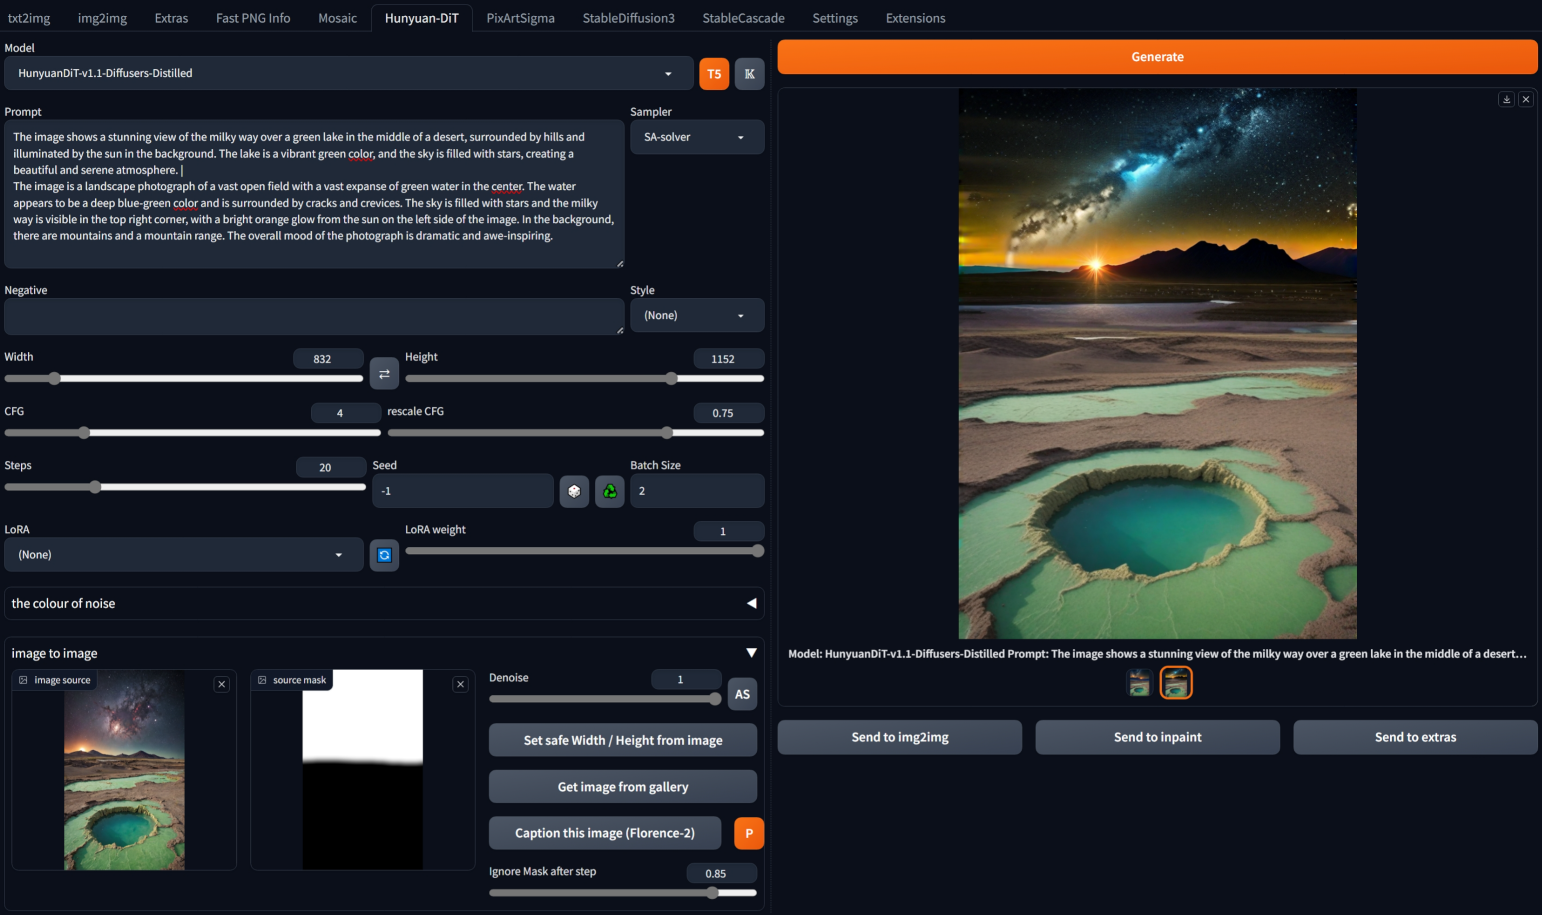
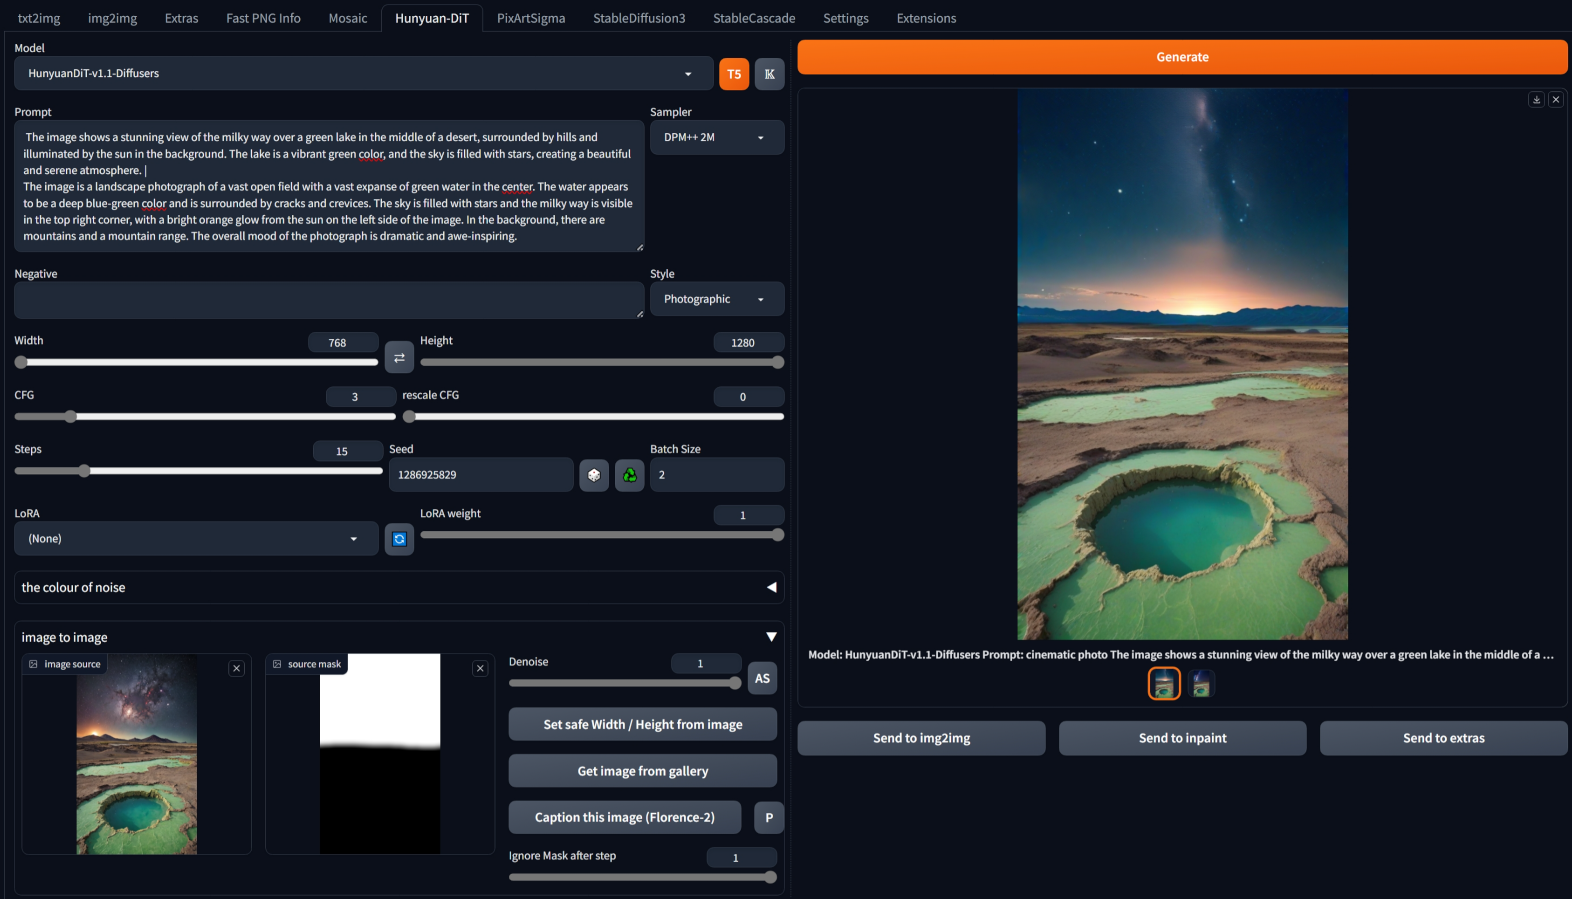
Add files via upload
cleaner batch handling; restored previous (better) image to image noise addition method

Changed region(s): [[0.0, 0.0, 1.0, 0.9655], [0.1556, 0.7164, 0.2802, 0.9655], [0.4669, 0.9655, 0.4981, 0.9967]]

diff --git a/scripts/hunyuan_DiT_diffusers.py b/scripts/hunyuan_DiT_diffusers.py
@@ -45,7 +45,7 @@ class HunyuanStorage:
     i2iAllSteps = False
     lora = None
     lora_scale = 1.0
-    last_batch = 0
+#    last_batch = 0
 
 ## from huggingace.co/Tencent-Hunyuan/HYDiT-LoRA
 def load_hunyuan_dit_lora(transformer_state_dict, lora_state_dict, lora_scale):
@@ -151,7 +151,6 @@ def predict(model, positive_prompt, negative_prompt, width, height, guidance_sca
     volatileState = [HunyuanStorage.useT5, HunyuanStorage.karras]
 
     if controlNet != 0 and controlNetImage != None and controlNetStrength > 0.0:
-        controlNetImage = controlNetImage.resize((width, height))
         useControlNet = ['Tencent-Hunyuan/HunyuanDiT-v1.1-ControlNet-Diffusers-Canny', 
                          'Tencent-Hunyuan/HunyuanDiT-v1.1-ControlNet-Diffusers-Depth', 
                          'Tencent-Hunyuan/HunyuanDiT-v1.1-ControlNet-Diffusers-Pose'][controlNet-1]
@@ -164,14 +163,11 @@ def predict(model, positive_prompt, negative_prompt, width, height, guidance_sca
     if i2iSource != None:
         if HunyuanStorage.i2iAllSteps == True:
             num_steps = int(num_steps / i2iDenoise)
-        i2iSource = i2iSource.resize((width, height))
     else:
         i2iDenoise = 1.0
         maskSource = None
 
-    if maskSource != None:
-        maskSource = maskSource.resize((int(width/8), int(height/8)))
-    else:
+    if maskSource == None:
         maskCutOff = 1.0
 
 
@@ -215,8 +211,7 @@ def predict(model, positive_prompt, negative_prompt, width, height, guidance_sca
 
     #first: tokenize and text_encode
     useCachedEmbeds = (HunyuanStorage.lastPrompt == combined_positive and 
-                       HunyuanStorage.lastNegative == combined_negative and
-                       HunyuanStorage.last_batch == num_images)
+                       HunyuanStorage.lastNegative == combined_negative)# and  HunyuanStorage.last_batch == num_images)
     if useCachedEmbeds:
         print ("Skipping text encoders and tokenizers.")
         #   nothing to do
@@ -266,19 +261,21 @@ def predict(model, positive_prompt, negative_prompt, width, height, guidance_sca
             positive_text_input_ids,
             attention_mask=positive_attention_1,
         )
-        bs_embed, seq_len, _ = prompt_embeds[0].shape
-        positive_embeds_1 = prompt_embeds[0].repeat(1, num_images, 1)
-        positive_embeds_1 = positive_embeds_1.view(bs_embed * num_images, seq_len, -1)
-        positive_attention_1 = positive_attention_1.repeat(num_images, 1)
+#        bs_embed, seq_len, _ = prompt_embeds[0].shape
+#        positive_embeds_1 = prompt_embeds[0].repeat(1, num_images, 1)
+#        positive_embeds_1 = positive_embeds_1.view(bs_embed * num_images, seq_len, -1)
+        positive_embeds_1 = prompt_embeds[0]#.repeat(num_images, 1, 1)
+#        positive_attention_1 = positive_attention_1.repeat(num_images, 1)
 
         prompt_embeds = text_encoder(
             negative_text_input_ids,
             attention_mask=negative_attention_1,
         )
-        seq_len = prompt_embeds[0].shape[1]
-        negative_embeds_1 = prompt_embeds[0].repeat(1, num_images, 1)
-        negative_embeds_1 = negative_embeds_1.view(num_images, seq_len, -1)
-        negative_attention_1 = negative_attention_1.repeat(num_images, 1)
+#        seq_len = prompt_embeds[0].shape[1]
+#        negative_embeds_1 = prompt_embeds[0].repeat(1, num_images, 1)
+#        negative_embeds_1 = negative_embeds_1.view(num_images, seq_len, -1)
+        negative_embeds_1 = prompt_embeds[0]#.repeat(num_images, 1, 1)
+#        negative_attention_1 = negative_attention_1.repeat(num_images, 1)
 
         del text_encoder, prompt_embeds
         #end text_encode 1
@@ -333,28 +330,31 @@ def predict(model, positive_prompt, negative_prompt, width, height, guidance_sca
                 positive_text_input_ids,
                 attention_mask=positive_attention_2,
             )
-            bs_embed, seq_len, _ = prompt_embeds[0].shape
-            positive_embeds_2 = prompt_embeds[0].repeat(1, num_images, 1)
-            positive_embeds_2 = positive_embeds_2.view(bs_embed * num_images, seq_len, -1)
-            positive_attention_2 = positive_attention_2.repeat(num_images, 1)
+
+#            bs_embed, seq_len, _ = prompt_embeds[0].shape
+#            positive_embeds_2 = prompt_embeds[0].repeat(1, num_images, 1)
+#            positive_embeds_2 = positive_embeds_2.view(bs_embed * num_images, seq_len, -1)
+            positive_embeds_2 = prompt_embeds[0]#.repeat(num_images, 1, 1)
+#            positive_attention_2 = positive_attention_2.repeat(num_images, 1)
 
             prompt_embeds = text_encoder(
                 negative_text_input_ids,
                 attention_mask=negative_attention_2,
             )
-            seq_len = prompt_embeds[0].shape[1]
-            negative_embeds_2 = prompt_embeds[0].repeat(1, num_images, 1)
-            negative_embeds_2 = negative_embeds_2.view(num_images, seq_len, -1)
-            negative_attention_2 = negative_attention_2.repeat(num_images, 1)
+#            seq_len = prompt_embeds[0].shape[1]
+#            negative_embeds_2 = prompt_embeds[0].repeat(1, num_images, 1)
+#            negative_embeds_2 = negative_embeds_2.view(num_images, seq_len, -1)
+            negative_embeds_2 = prompt_embeds[0]#.repeat(num_images, 1, 1)
+#            negative_attention_2 = negative_attention_2.repeat(num_images, 1)
 
             del text_encoder, prompt_embeds
             #end text_encode 2
         else:
             #256 is tokenizer max length from config; 2048 is transformer joint_attention_dim from its config
-            positive_embeds_2    = torch.zeros((num_images, 256, 2048))
-            positive_attention_2 = torch.zeros((num_images, 256))
-            negative_embeds_2    = torch.zeros((num_images, 256, 2048))
-            negative_attention_2 = torch.zeros((num_images, 256))
+            positive_embeds_2    = torch.zeros((1, 256, 2048))
+            positive_attention_2 = torch.zeros((1, 256))
+            negative_embeds_2    = torch.zeros((1, 256, 2048))
+            negative_attention_2 = torch.zeros((1, 256))
 
         HunyuanStorage.positive_embeds_1    = positive_embeds_1.to('cpu')
         HunyuanStorage.positive_attention_1 = positive_attention_1.to('cpu')
@@ -370,7 +370,7 @@ def predict(model, positive_prompt, negative_prompt, width, height, guidance_sca
 
         HunyuanStorage.lastPrompt = combined_positive
         HunyuanStorage.lastNegative = combined_negative
-        HunyuanStorage.last_batch = num_images
+#        HunyuanStorage.last_batch = num_images
 
     gc.collect()
     torch.cuda.empty_cache()
@@ -443,8 +443,7 @@ def predict(model, positive_prompt, negative_prompt, width, height, guidance_sca
         del imageR, imageG, imageB, image, image_latents
     #   end: colour the initial noise
 
-#   load in LoRA
-
+    #   load LoRA
     if HunyuanStorage.lora and HunyuanStorage.lora != "(None)" and HunyuanStorage.lora_scale != 0.0:
         lorafile = ".//models/diffusers//HunyuanLora//" + HunyuanStorage.lora + ".safetensors"
 
@@ -470,6 +469,7 @@ def predict(model, positive_prompt, negative_prompt, width, height, guidance_sca
                 print ("Failed: LoRA: " + lorafile)
                 return gr.Button.update(value='Generate', variant='primary', interactive=True), None
         del lora_state_dict
+    #   end: load LoRA
    
     if scheduler == 'DDPM':
         pipe.scheduler = DDPMScheduler.from_config(pipe.scheduler.config)
@@ -496,8 +496,12 @@ def predict(model, positive_prompt, negative_prompt, width, height, guidance_sca
     if hasattr(pipe.scheduler.config, 'use_karras_sigmas'):
         pipe.scheduler.config.use_karras_sigmas = HunyuanStorage.karras
 
-##    pipe.scheduler.beta_schedule  = beta_schedule
-##    pipe.scheduler.use_lu_lambdas = use_lu_lambdas
+    if hasattr(pipe.scheduler.config, 'timestep_spacing'):
+        pipe.scheduler.config.timestep_spacing = "trailing"
+
+#    if hasattr(pipe.scheduler.config, 'rescale_betas_zero_snr'):
+#        pipe.scheduler.config.rescale_betas_zero_snr = True
+
     pipe.transformer.to(memory_format=torch.channels_last)
     pipe.vae.to(memory_format=torch.channels_last)
 
@@ -709,8 +713,6 @@ def on_ui_tabs():
                                              "DPM++ 2M SDE",
                                              "DPM",
                                              "DPM SDE",
-                                             "Euler",
-                                             "Euler A",
                                              "SA-solver",
                                              "UniPC",
                                              ],
@@ -776,7 +778,7 @@ def on_ui_tabs():
             with gr.Column():
                 generate_button = gr.Button(value="Generate", variant='primary', visible=True)
                 output_gallery = gr.Gallery(label='Output', height="80vh",
-                                            show_label=False, object_fit='contain', visible=True, columns=3, preview=True)
+                                            show_label=False, visible=True, object_fit='none', columns=3, preview=True)
 #   gallery movement buttons don't work, others do
 #   caption not displaying linebreaks, alt text does
 

diff --git a/scripts/HY_pipeline.py b/scripts/HY_pipeline.py
@@ -366,6 +366,16 @@ class HunyuanDiTPipeline_DoE_combined(DiffusionPipeline, SD3LoraLoaderMixin):
             logger.warning(f"Reshaped to (height, width)=({height}, {width}), Supported shapes are {SUPPORTED_SHAPE}")
             
             
+        # 0.01 repeat prompt embeds to match num_images_per_prompt
+        prompt_embeds = prompt_embeds.repeat(num_images_per_prompt, 1, 1)
+        prompt_embeds_2 = prompt_embeds_2.repeat(num_images_per_prompt, 1, 1)
+        negative_prompt_embeds = negative_prompt_embeds.repeat(num_images_per_prompt, 1, 1)
+        negative_prompt_embeds_2 = negative_prompt_embeds_2.repeat(num_images_per_prompt, 1, 1)
+
+        prompt_attention_mask = prompt_attention_mask.repeat(num_images_per_prompt, 1)
+        prompt_attention_mask_2 = prompt_attention_mask_2.repeat(num_images_per_prompt, 1)
+        negative_prompt_attention_mask = negative_prompt_attention_mask.repeat(num_images_per_prompt, 1)
+        negative_prompt_attention_mask_2 = negative_prompt_attention_mask_2.repeat(num_images_per_prompt, 1)
 
         # 1. Check inputs. Raise error if not correct
         self.check_inputs(
@@ -422,18 +432,20 @@ class HunyuanDiTPipeline_DoE_combined(DiffusionPipeline, SD3LoraLoaderMixin):
             latent_timestep = timesteps[:1].repeat(num_images_per_prompt)
 
             # 3. Preprocess image
-            image = self.image_processor.preprocess(image).to('cuda').to(torch.float16)
+            image = self.image_processor.preprocess(image, height=height, width=width).to('cuda').to(torch.float16)
             image_latents = self.vae.encode(image).latent_dist.sample(generator) * self.vae.config.scaling_factor * self.scheduler.init_noise_sigma
             image_latents = image_latents.repeat(num_images_per_prompt, 1, 1, 1)
 
             # add noise to image latents
             if strength < 1.0:
-                latents = torch.lerp (image_latents, noise, float(timesteps[0]/1000.0))
+                ts = torch.tensor([timesteps[0]], device='cuda')
+                ts = ts[:1].repeat(num_images_per_prompt)
+                latents = self.scheduler.add_noise(image_latents, noise, ts)
 
             if mask_image is not None:
                 # 5.1. Prepare masked latent variables
                 #### mask_image already resized /8 at start of predict()
-                mask = self.mask_processor.preprocess(mask_image).to(device='cuda', dtype=torch.float16)
+                mask = self.mask_processor.preprocess(mask_image, height=height//8, width=width//8).to(device='cuda', dtype=torch.float16)
                
         else:
             timesteps = self.scheduler.timesteps
@@ -479,9 +491,11 @@ class HunyuanDiTPipeline_DoE_combined(DiffusionPipeline, SD3LoraLoaderMixin):
                 if self.interrupt:
                     continue
 
-                if doDiffDiff and float((i+1) / self._num_timesteps) <= self._mask_cutoff:# and i > 0 :
+                if doDiffDiff and float((i+1) / self._num_timesteps) <= self._mask_cutoff:
                     tmask = (mask >= float((i+1) / self._num_timesteps)).repeat(num_images_per_prompt, 1, 1, 1)
-                    init_latents_proper = torch.lerp (image_latents, noise, float(t/1000.0))
+                    ts = torch.tensor([t], device='cuda')
+                    ts = ts[:1].repeat(num_images_per_prompt)
+                    init_latents_proper = self.scheduler.add_noise(image_latents, noise, ts)
                     latents = (init_latents_proper * ~tmask) + (latents * tmask)
 
                 # expand the latents if we are doing classifier free guidance

diff --git a/README.md b/README.md
@@ -24,6 +24,11 @@ diffusers>=0.28.1
 ```
 
 ---
+#### 02/07/2024 ####
+* cleaner handling for batch after understanding the code a bit better - why repeat over the second dimension, then take use a view to get the right shape, when it is easier to just repeat over the first dimension? Other diffusers pipelines do it too.
+* fixed image to image: changed method of added noise when I added masking, which was an error.
+* removed **Euler** and **Euler A** samplers as they seem very bad.
+
 #### 01/07/2024 ####
 * fix for batch, tested with diffusers versions 0.29.1 and 0.29.2. On my low-end hardware, this takes *n* times longer to generate, up to the point where it starts hitting shared memory, then it gets *really* slow.
 * model selection now via dropdown, in preparation for v1.2 (not much information yet, needs a code update, so still have v1.1 as default)
